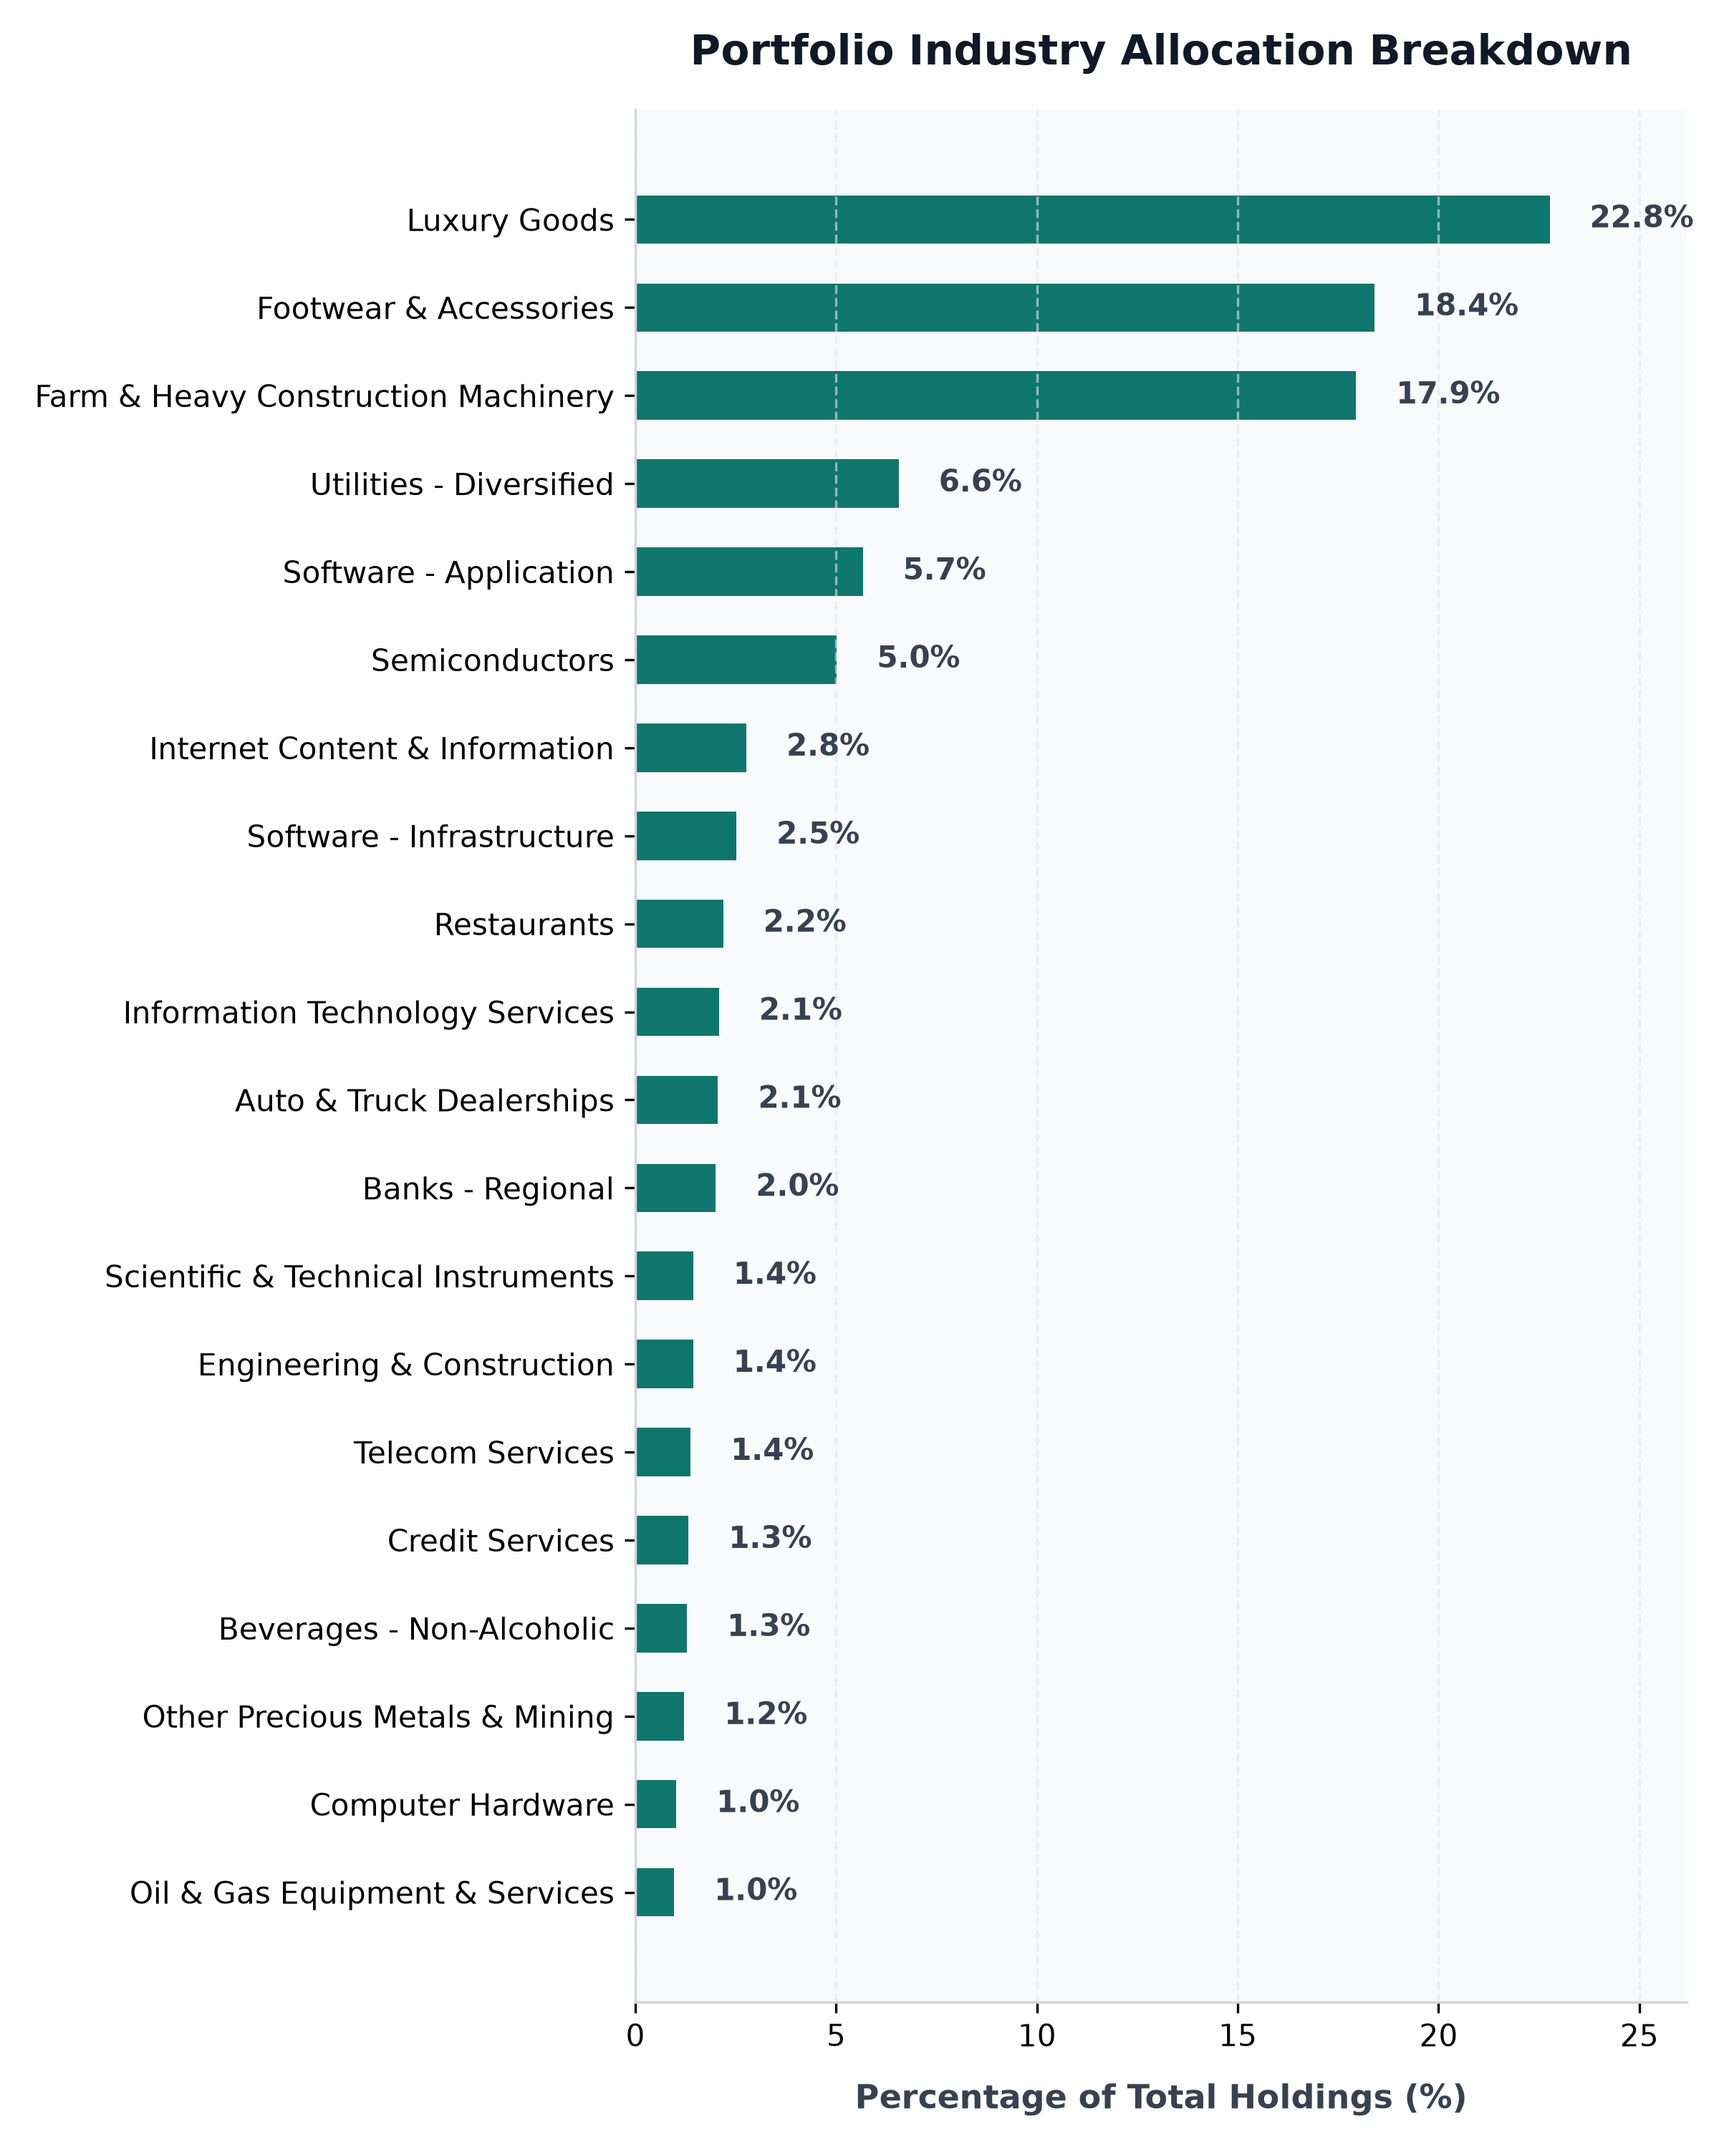
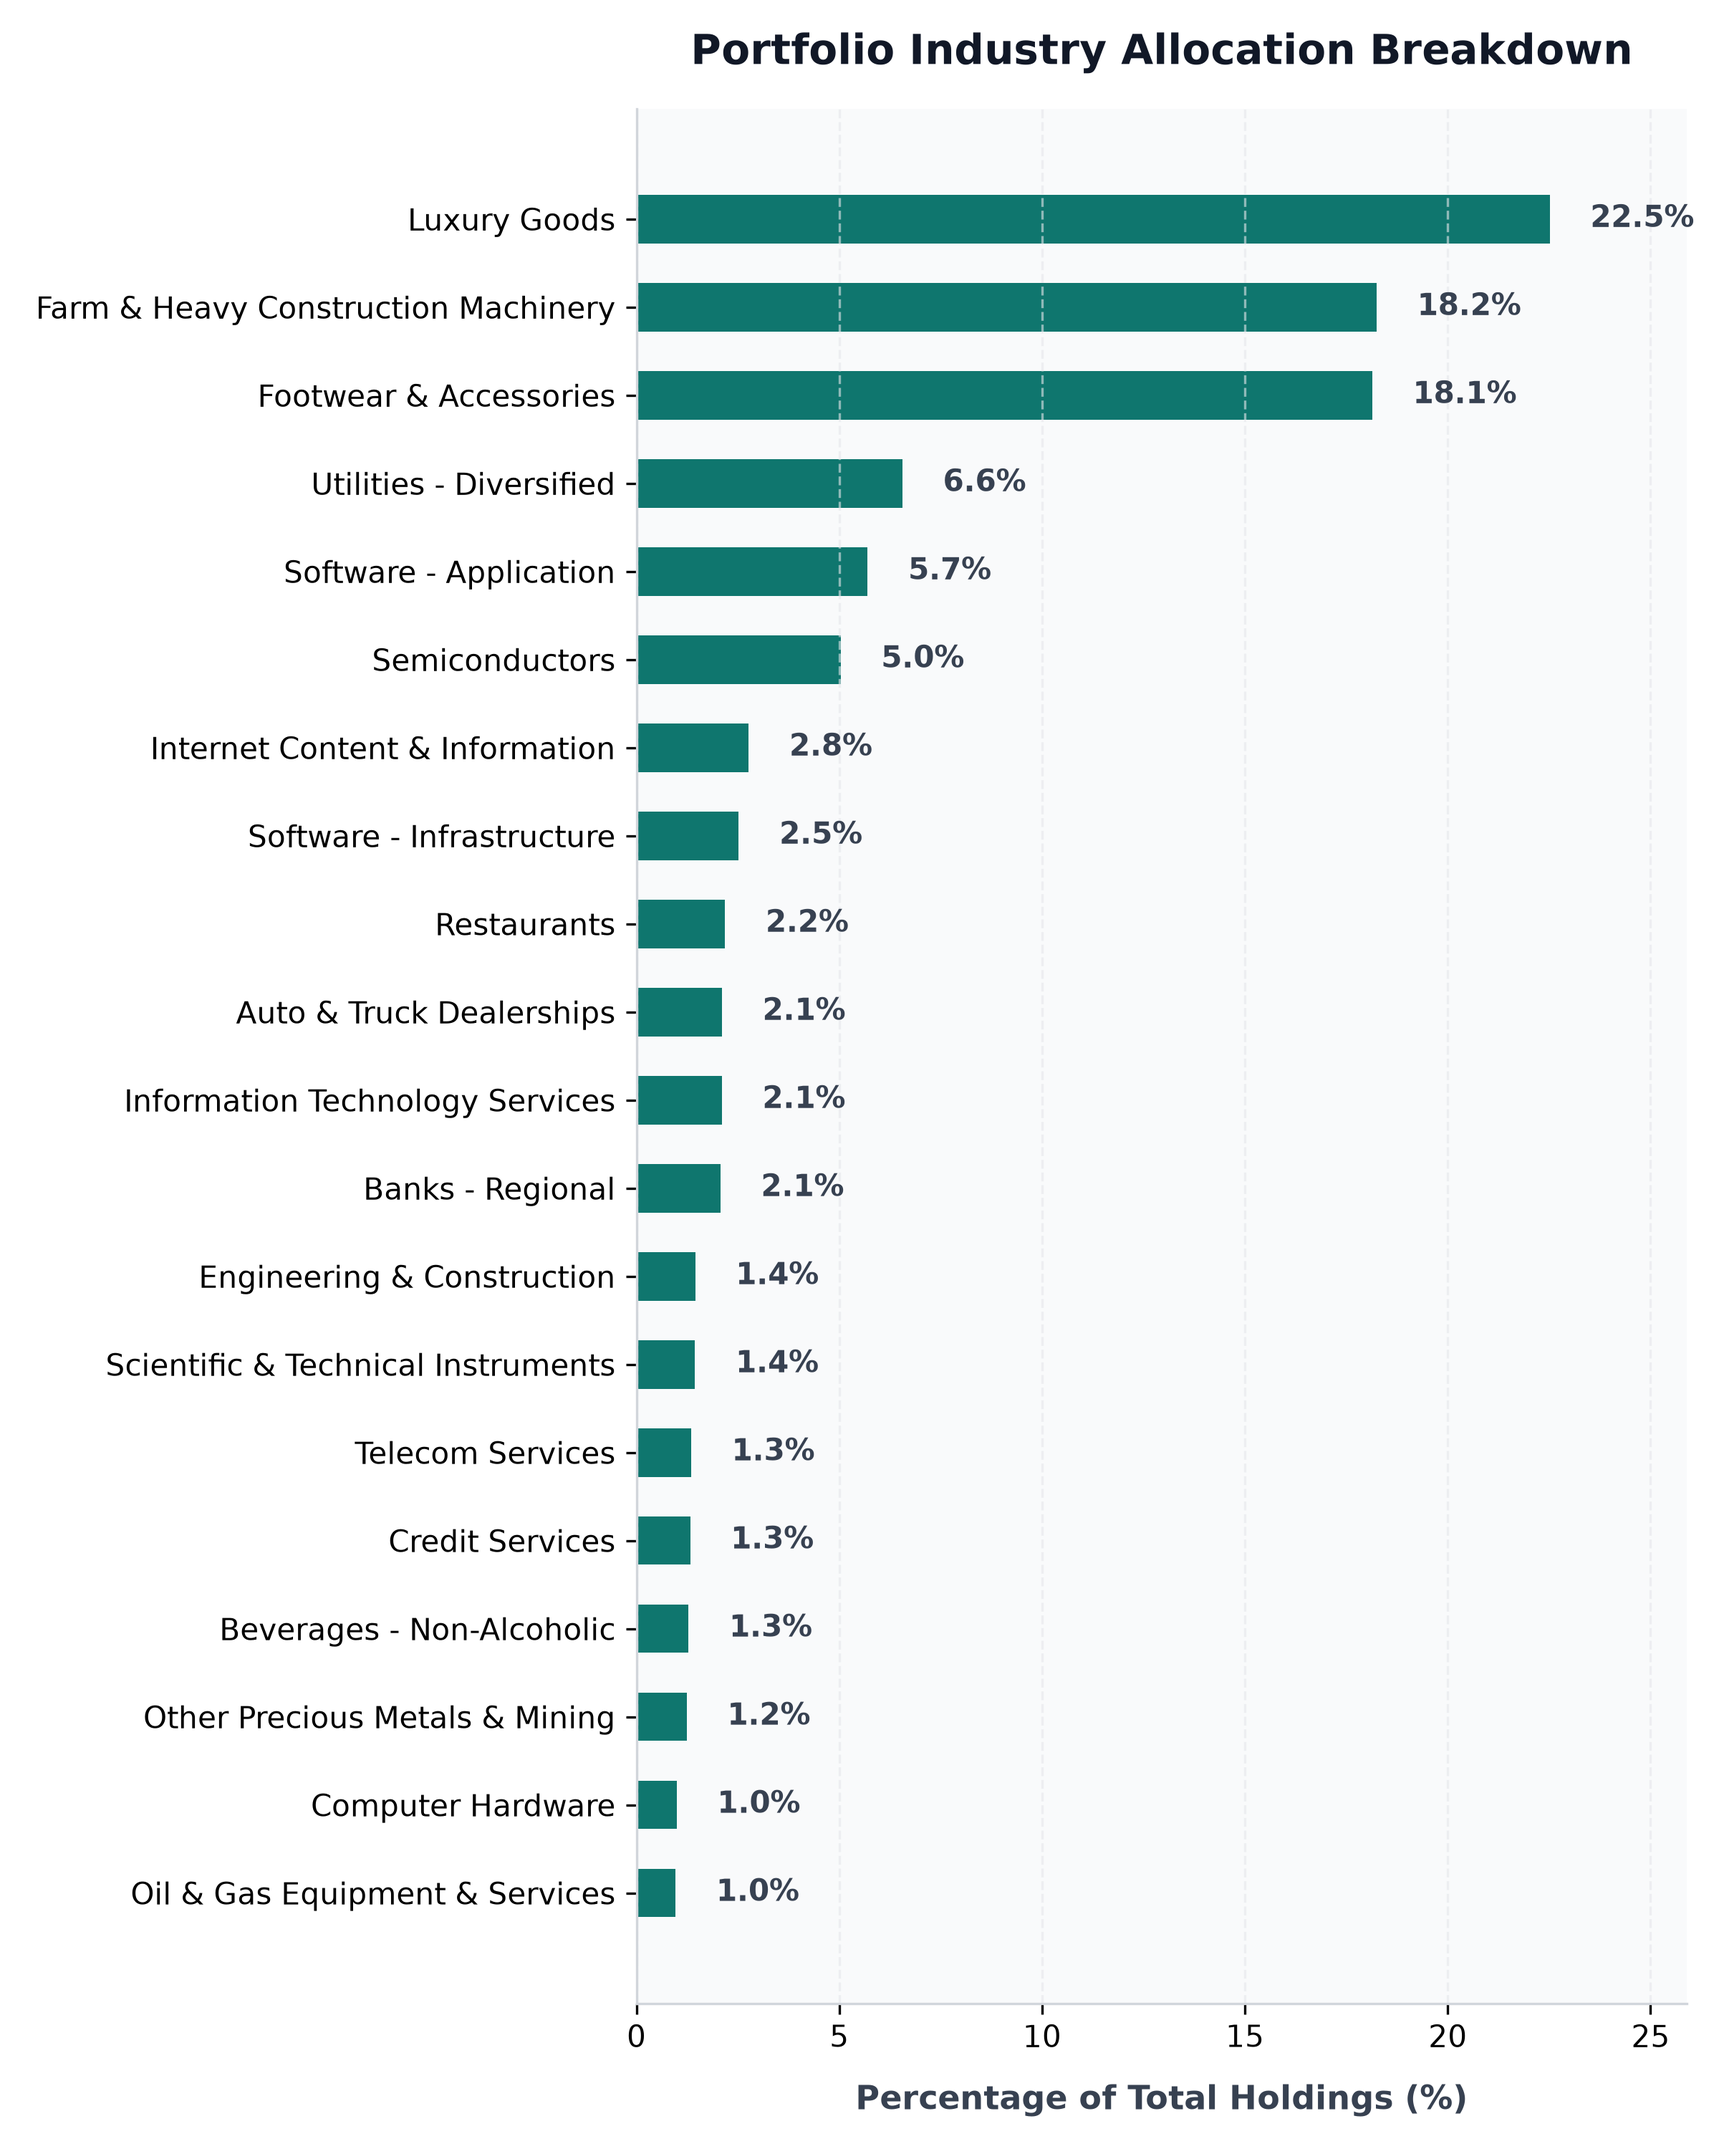
auto: daily portfolio status update - 2026-10-24 06:05:13

diff --git a/src/content/posts/portfolio-performance.md b/src/content/posts/portfolio-performance.md
@@ -1,6 +1,6 @@
 ---
 title: "BadOmen Algorithmic Portfolio Performance & PnL Report"
-pubDatetime: 2026-10-24T00:00:13.556067+08:00
+pubDatetime: 2026-10-24T06:05:13.093079+08:00
 description: "Live performance metrics, active holdings, and historic equity curve for the BadOmen automated paper trading portfolio."
 featured: true
 draft: false
@@ -16,11 +16,11 @@ Welcome to the live performance dashboard for **BadOmen**, our automated algorit
 ## 📊 Portfolio Summary
 | Performance Metric | Value | description |
 | :--- | :--- | :--- |
-| **Net Portfolio Equity** | **$97,719.68** | Total current liquidation value of cash and stock holdings |
-| **Total Unrealized P&L** | 🔴 **$-3,365.33** (-3.33%) | Total return of current open holdings |
+| **Net Portfolio Equity** | **$97,344.70** | Total current liquidation value of cash and stock holdings |
+| **Total Unrealized P&L** | 🔴 **$-3,749.57** (-3.71%) | Total return of current open holdings |
 | **Cash Balance** | $24,266.50 | Idle reserve currency available for limit orders |
-| **Buying Power** | $302,734.90 | Margin-backed buying power for entry allocations |
-| **Report Updated** | `2026-10-24 00:00:13 (SGT)` | Timestamp of daily execution and sync run |
+| **Buying Power** | $301,684.95 | Margin-backed buying power for entry allocations |
+| **Report Updated** | `2026-10-24 06:05:13 (SGT)` | Timestamp of daily execution and sync run |
 
 ## 📈 Net Equity Growth Curve
 The chart below illustrates the historical performance of the account starting from our baseline capital funding of $100,000.00.
@@ -35,35 +35,35 @@ The chart below illustrates the exposure of our currently held active positions 
 ## 💼 Current Position Holdings
 | Ticker | Industry | Shares Owned | Average Entry Cost | Current Price | Unrealized P&L | Return (%) |
 | :--- | :--- | :--- | :--- | :--- | :--- | :--- |
-| **AN** | Auto & Truck Dealerships | 5 | $188.51 | $158.27 | 🔴 $-151.19 | -16.04% |
-| **AVGO** | Semiconductors | 1 | $385.71 | $326.13 | 🔴 $-59.58 | -15.45% |
-| **BIRK** | Footwear & Accessories | 407 | $37.32 | $33.22 | 🔴 $-1,667.77 | -10.98% |
-| **BLBD** | Farm & Heavy Construction Machinery | 231 | $65.52 | $57.07 | 🔴 $-1,951.02 | -12.89% |
-| **BVN** | Other Precious Metals & Mining | 32 | $31.88 | $27.87 | 🔴 $-128.16 | -12.57% |
-| **CELH** | Beverages - Non-Alcoholic | 33 | $29.71 | $28.59 | 🔴 $-36.88 | -3.76% |
-| **CPRI** | Luxury Goods | 1042 | $14.55 | $16.05 | 🟢 +$1,561.12 | +10.30% |
-| **DUOL** | Software - Application | 14 | $131.04 | $143.60 | 🟢 +$175.78 | +9.58% |
-| **FIS** | Information Technology Services | 23 | $41.79 | $37.13 | 🔴 $-107.18 | -11.15% |
-| **GDDY** | Software - Infrastructure | 6 | $76.21 | $113.45 | 🟢 +$223.44 | +48.86% |
-| **GDS** | Information Technology Services | 30 | $32.77 | $22.48 | 🔴 $-308.85 | -31.42% |
-| **GGAL** | Banks - Regional | 17 | $56.04 | $36.70 | 🔴 $-328.77 | -34.51% |
-| **GOOGL** | Internet Content & Information | 3 | $319.44 | $323.13 | 🟢 +$11.06 | +1.16% |
-| **GPI** | Auto & Truck Dealerships | 3 | $316.15 | $239.67 | 🔴 $-229.44 | -24.19% |
-| **HUBS** | Software - Application | 8 | $221.18 | $268.62 | 🟢 +$379.51 | +21.45% |
-| **ITRI** | Scientific & Technical Instruments | 12 | $81.80 | $88.12 | 🟢 +$75.84 | +7.73% |
-| **KBR** | Engineering & Construction | 27 | $36.23 | $39.13 | 🟢 +$78.22 | +8.00% |
-| **NESR** | Oil & Gas Equipment & Services | 34 | $28.74 | $20.81 | 🔴 $-269.62 | -27.59% |
-| **NU** | Banks - Regional | 57 | $11.60 | $14.85 | 🟢 +$185.05 | +27.99% |
-| **ON** | Semiconductors | 10 | $90.45 | $72.63 | 🔴 $-178.25 | -19.71% |
-| **ORCL** | Software - Infrastructure | 5 | $181.95 | $127.66 | 🔴 $-271.45 | -29.84% |
-| **PATH** | Software - Infrastructure | 38 | $10.25 | $13.89 | 🟢 +$138.51 | +35.56% |
-| **PYPL** | Credit Services | 17 | $56.05 | $57.18 | 🟢 +$19.21 | +2.02% |
-| **QCOM** | Semiconductors | 15 | $193.68 | $175.44 | 🔴 $-273.60 | -9.42% |
-| **SMCI** | Computer Hardware | 22 | $29.25 | $33.98 | 🟢 +$104.06 | +16.17% |
-| **SRE** | Utilities - Diversified | 57 | $84.75 | $84.50 | 🔴 $-14.39 | -0.30% |
-| **T** | Telecom Services | 47 | $20.85 | $21.47 | 🟢 +$29.14 | +2.97% |
-| **WEN** | Restaurants | 257 | $8.02 | $6.25 | 🔴 $-457.13 | -22.17% |
-| **ZG** | Internet Content & Information | 31 | $31.35 | $34.16 | 🟢 +$87.01 | +8.95% |
+| **AN** | Auto & Truck Dealerships | 5 | $188.51 | $161.05 | 🔴 $-137.29 | -14.57% |
+| **AVGO** | Semiconductors | 1 | $385.71 | $322.67 | 🔴 $-63.04 | -16.34% |
+| **BIRK** | Footwear & Accessories | 407 | $37.32 | $32.57 | 🔴 $-1,932.32 | -12.72% |
+| **BLBD** | Farm & Heavy Construction Machinery | 231 | $65.52 | $57.73 | 🔴 $-1,798.56 | -11.88% |
+| **BVN** | Other Precious Metals & Mining | 32 | $31.88 | $28.32 | 🔴 $-113.76 | -11.15% |
+| **CELH** | Beverages - Non-Alcoholic | 33 | $29.71 | $28.47 | 🔴 $-41.01 | -4.18% |
+| **CPRI** | Luxury Goods | 1042 | $14.55 | $15.79 | 🟢 +$1,290.20 | +8.51% |
+| **DUOL** | Software - Application | 14 | $131.04 | $143.04 | 🟢 +$167.94 | +9.15% |
+| **FIS** | Information Technology Services | 23 | $41.79 | $37.53 | 🔴 $-97.98 | -10.19% |
+| **GDDY** | Software - Infrastructure | 6 | $76.21 | $112.79 | 🟢 +$219.48 | +48.00% |
+| **GDS** | Information Technology Services | 30 | $32.77 | $22.50 | 🔴 $-308.10 | -31.34% |
+| **GGAL** | Banks - Regional | 17 | $56.04 | $37.91 | 🔴 $-308.20 | -32.35% |
+| **GOOGL** | Internet Content & Information | 3 | $319.44 | $321.23 | 🟢 +$5.37 | +0.56% |
+| **GPI** | Auto & Truck Dealerships | 3 | $316.15 | $244.97 | 🔴 $-213.54 | -22.52% |
+| **HUBS** | Software - Application | 8 | $221.18 | $270.39 | 🟢 +$393.67 | +22.25% |
+| **ITRI** | Scientific & Technical Instruments | 12 | $81.80 | $88.00 | 🟢 +$74.40 | +7.58% |
+| **KBR** | Engineering & Construction | 27 | $36.23 | $39.19 | 🟢 +$79.84 | +8.16% |
+| **NESR** | Oil & Gas Equipment & Services | 34 | $28.74 | $20.77 | 🔴 $-270.98 | -27.73% |
+| **NU** | Banks - Regional | 57 | $11.60 | $15.23 | 🟢 +$206.99 | +31.31% |
+| **ON** | Semiconductors | 10 | $90.45 | $72.25 | 🔴 $-182.05 | -20.13% |
+| **ORCL** | Software - Infrastructure | 5 | $181.95 | $126.30 | 🔴 $-278.25 | -30.59% |
+| **PATH** | Software - Infrastructure | 38 | $10.25 | $14.10 | 🟢 +$146.30 | +37.56% |
+| **PYPL** | Credit Services | 17 | $56.05 | $56.90 | 🟢 +$14.43 | +1.51% |
+| **QCOM** | Semiconductors | 15 | $193.68 | $175.55 | 🔴 $-272.02 | -9.36% |
+| **SMCI** | Computer Hardware | 22 | $29.25 | $32.97 | 🟢 +$81.84 | +12.72% |
+| **SRE** | Utilities - Diversified | 57 | $84.75 | $84.06 | 🔴 $-39.47 | -0.82% |
+| **T** | Telecom Services | 47 | $20.85 | $20.96 | 🟢 +$5.17 | +0.53% |
+| **WEN** | Restaurants | 257 | $8.02 | $6.21 | 🔴 $-465.95 | -22.60% |
+| **ZG** | Internet Content & Information | 31 | $31.35 | $34.17 | 🟢 +$87.32 | +8.98% |
 
 ## 🔴 Recent Realized Trades
 | Ticker | Shares Sold | Entry Price | Exit Price | Strategy Trigger | Realized Return | Exit Date |
